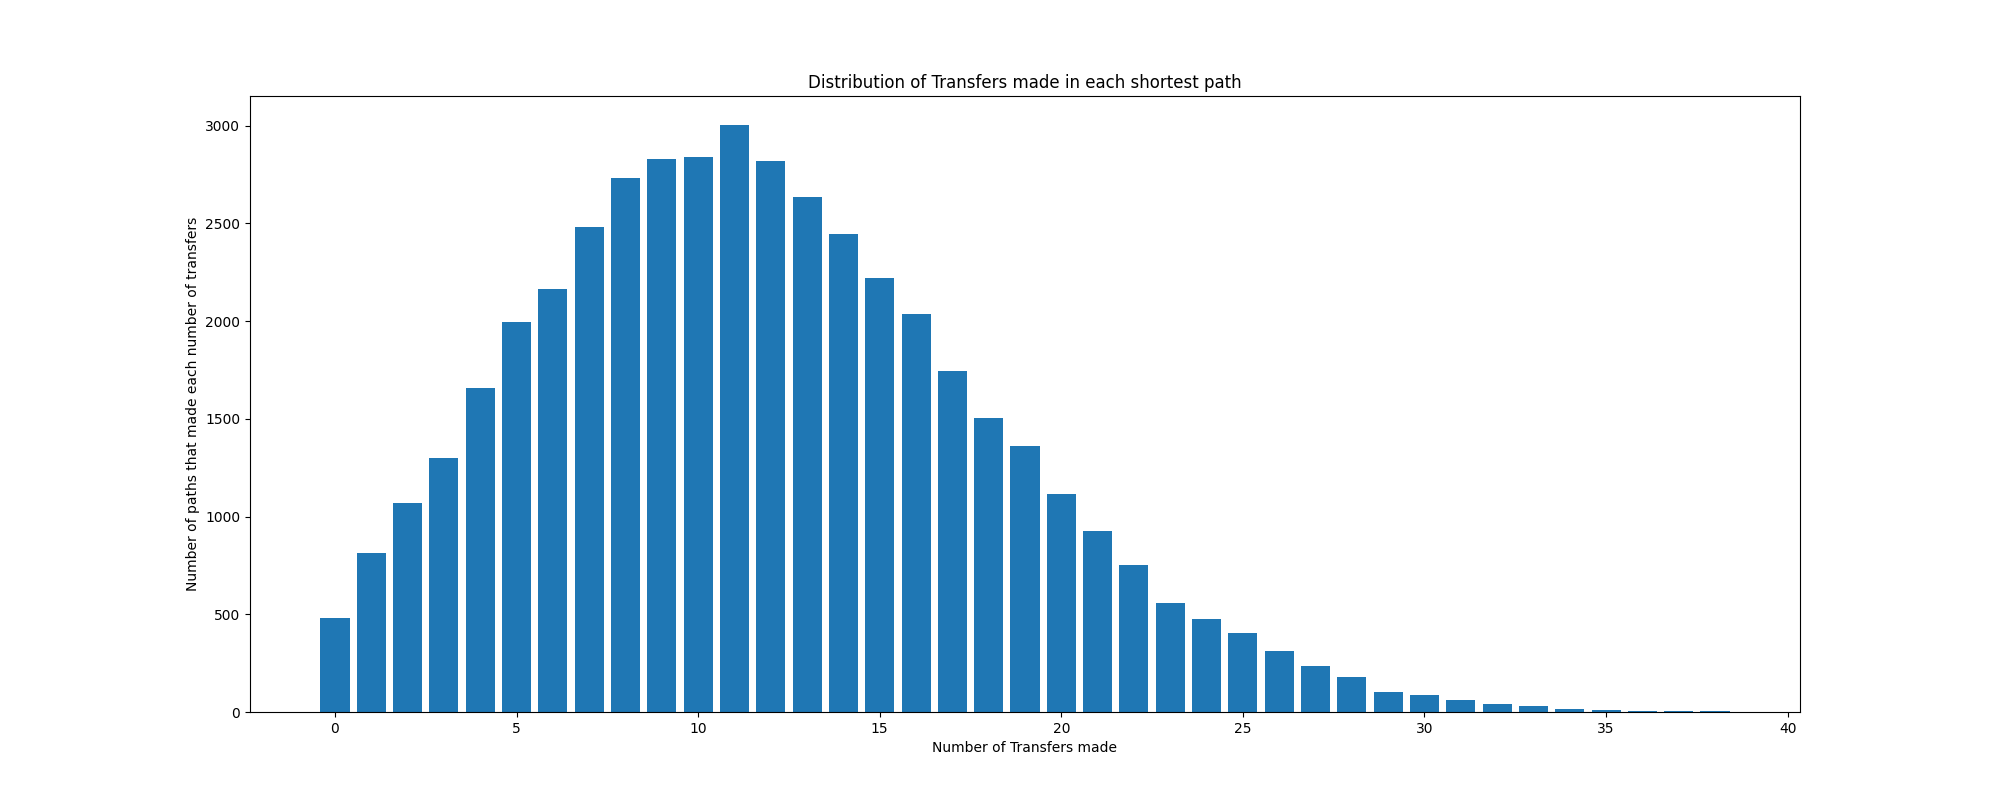
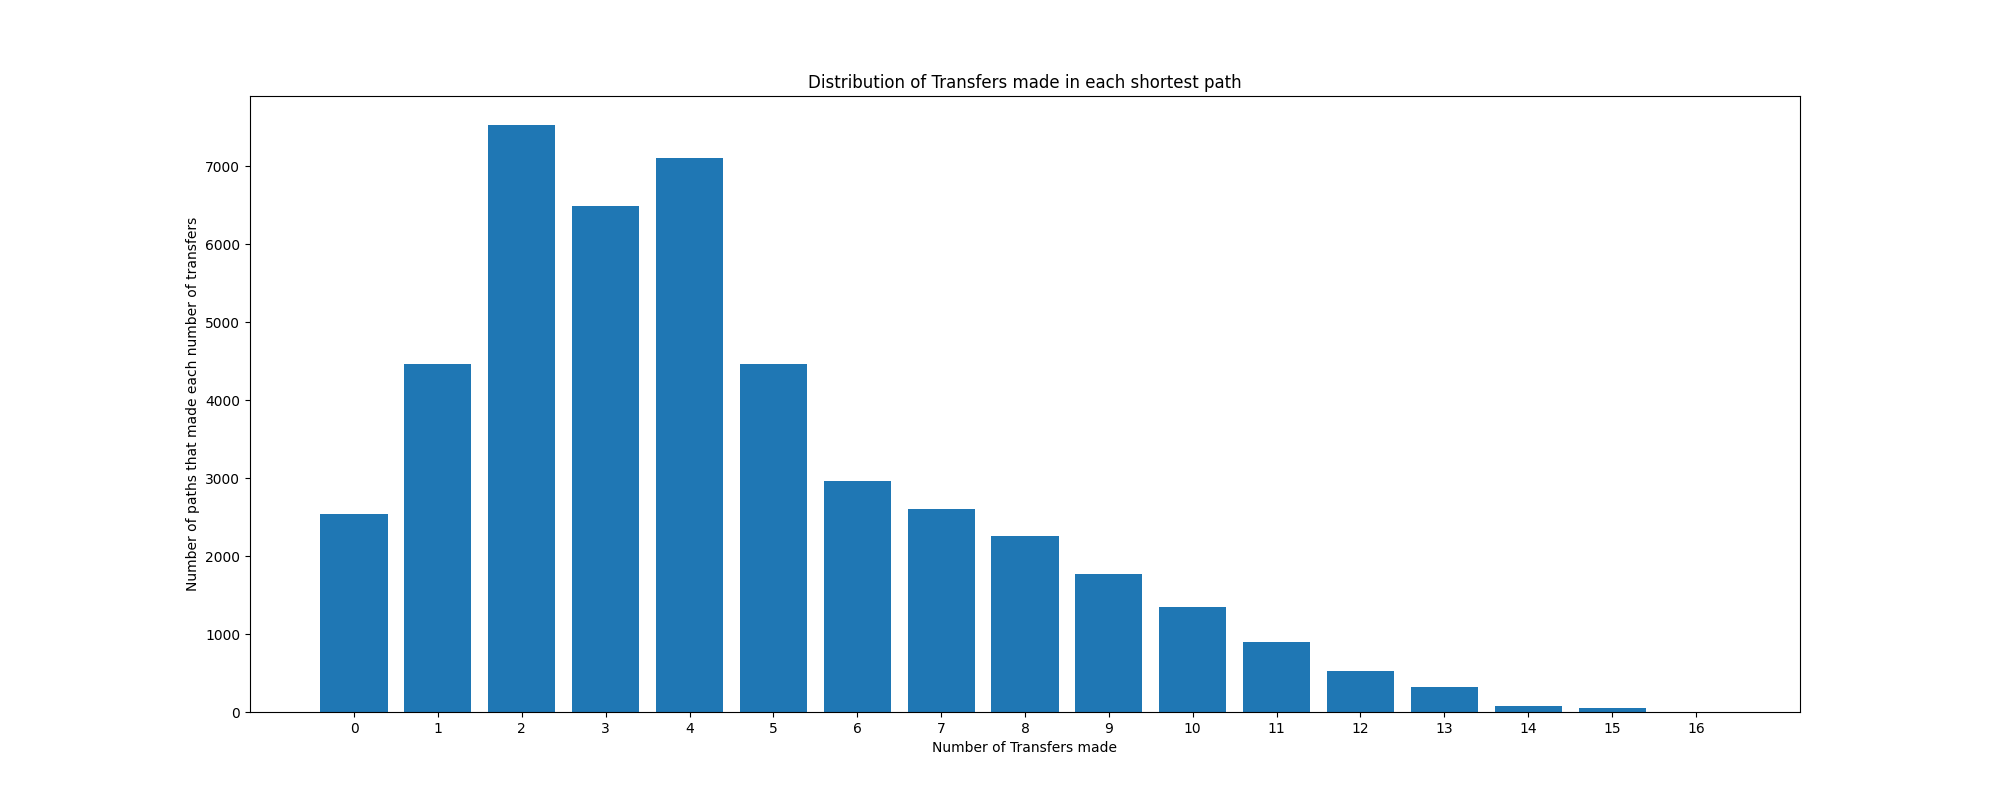
pretty much done

diff --git a/Part5.py b/Part5.py
@@ -150,8 +150,12 @@ def build_histogram(graph):
     return
 
 def draw_histogram (transfer_count):
+    keys = sorted(transfer_count.keys())
+    values = [transfer_count[k] for k in keys]
+
     fig=plt.figure(figsize=(20,8))
-    plt.bar(transfer_count.keys(), transfer_count.values())
+    plt.bar(keys,values)
+    plt.xticks(keys)
 
     plt.xlabel("Number of Transfers made")
     plt.ylabel("Number of paths that made each number of transfers")

diff --git a/graph.py b/graph.py
@@ -141,6 +141,7 @@ class WeightedGraphAStar():
             # Since it is undirected, add the reverse connection as well. (Might remove this but I think the station map she gave us is undirected, so idk)
             self.graph[node2].append(node1)
             self.weight[(node2, node1)] = weight
+            self.line[(node2, node1)] = line
         
         return
 
